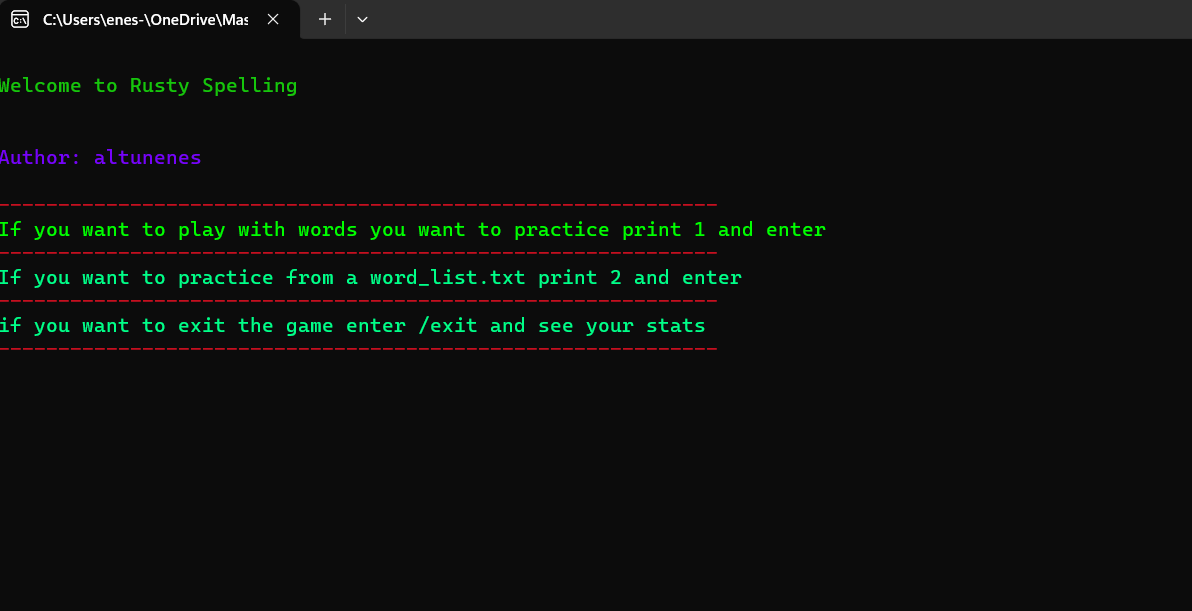
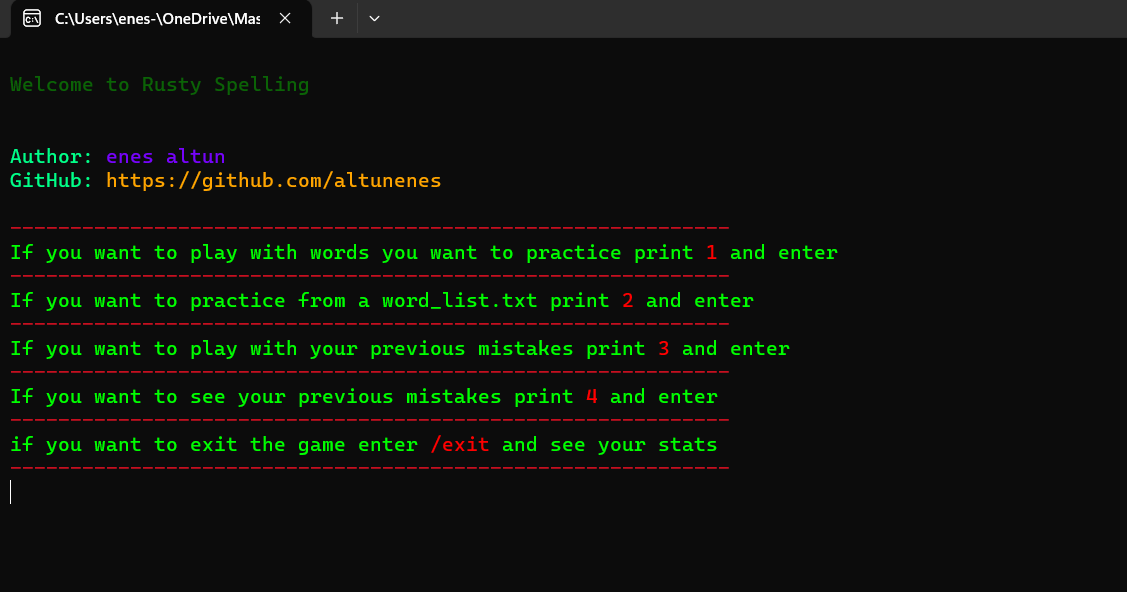
We don't need react or typescript

diff --git a/src/route/messages.rs b/src/route/messages.rs
@@ -5,25 +5,35 @@ pub fn messages() {
     }
 
     pub fn author() {
-        println!("\n{}\n", "Author: altunenes".truecolor(118, 3, 250));
+        let name = "enes altun".truecolor(118, 3, 250);
+        let link = "https://github.com/altunenes".truecolor(255, 165, 0);
+        println!("\n{}{}\n{}{}\n", "Author: ".truecolor(0, 255, 136), name, "GitHub: ".truecolor(0, 255, 136), link);
     }
-
     pub fn separator() {
         println!("{}", "-".repeat(60).red());
     }
 
     pub fn play_prompt() {
-        println!("{}", "If you want to play with words you want to practice print 1 and enter".truecolor(0, 255, 0));
+        let message = format!("{}{}{}",
+            "If you want to play with words you want to practice print ".truecolor(0, 255, 0),
+            "1".truecolor(255, 0, 0).bold(),
+            " and enter".truecolor(0, 255, 0),
+        );
+        println!("{}", message);
     }
-
+    
     pub fn list_prompt() {
-        println!("{}", "If you want to practice from a word_list.txt print 2 and enter".truecolor(0, 255, 136));
+        let message = format!("{}{}{}",
+            "If you want to practice from a word_list.txt print ".truecolor(0, 255, 0),
+            "2".truecolor(255, 0, 0).bold(),
+            " and enter".truecolor(0, 255, 0),
+        );
+        println!("{}", message);
     }
-
     pub fn exit_prompt() {
         let prompt = "if you want to exit the game enter ".truecolor(0, 255, 0);
         let stats = " and see your stats".truecolor(0, 255, 0);
-        let exit = "/exit".truecolor(255, 0, 0);
+        let exit = "/exit".truecolor(255, 0, 0).bold();
         let message = format!("{}{}{}",
             prompt,
             exit,
@@ -31,9 +41,20 @@ pub fn messages() {
         );
         println!("{}", message);
     }
-    pub fn mistake_prompt() {
-        println!("{}", "if you want to see your previous mistakes print 4 and enter".truecolor(0, 255, 136));
-    }
     pub fn play_mistake_promt(){
-        println!("{}", "if you want to play with your previous mistakes print 3 and enter".truecolor(0, 255, 136));
+        let message = format!("{}{}{}",
+            "If you want to play with your previous mistakes print ".truecolor(0, 255, 0),
+            "3".truecolor(255, 0, 0).bold(),
+            " and enter".truecolor(0, 255, 0),
+        );
+        println!("{}", message);
+    }
+    
+    pub fn mistake_prompt() {
+        let message = format!("{}{}{}",
+            "If you want to see your previous mistakes print ".truecolor(0, 255, 0),
+            "4".truecolor(255, 0, 0).bold(),
+            " and enter".truecolor(0, 255, 0),
+        );
+        println!("{}", message);
     }
